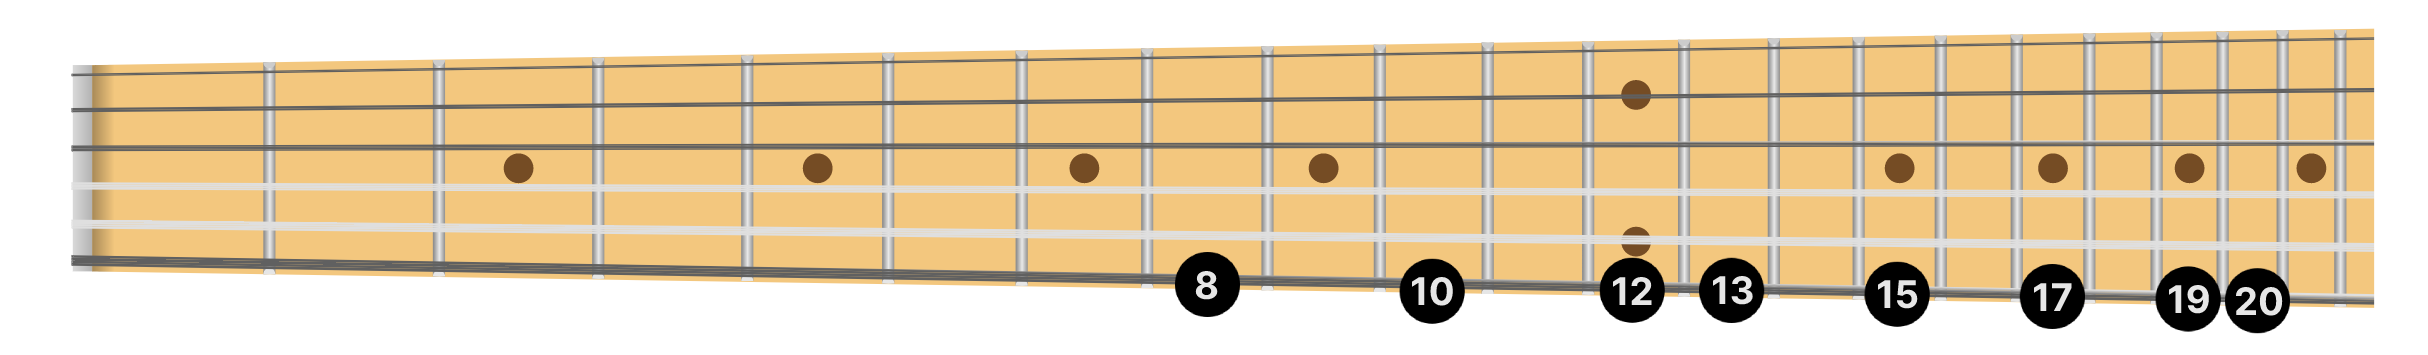
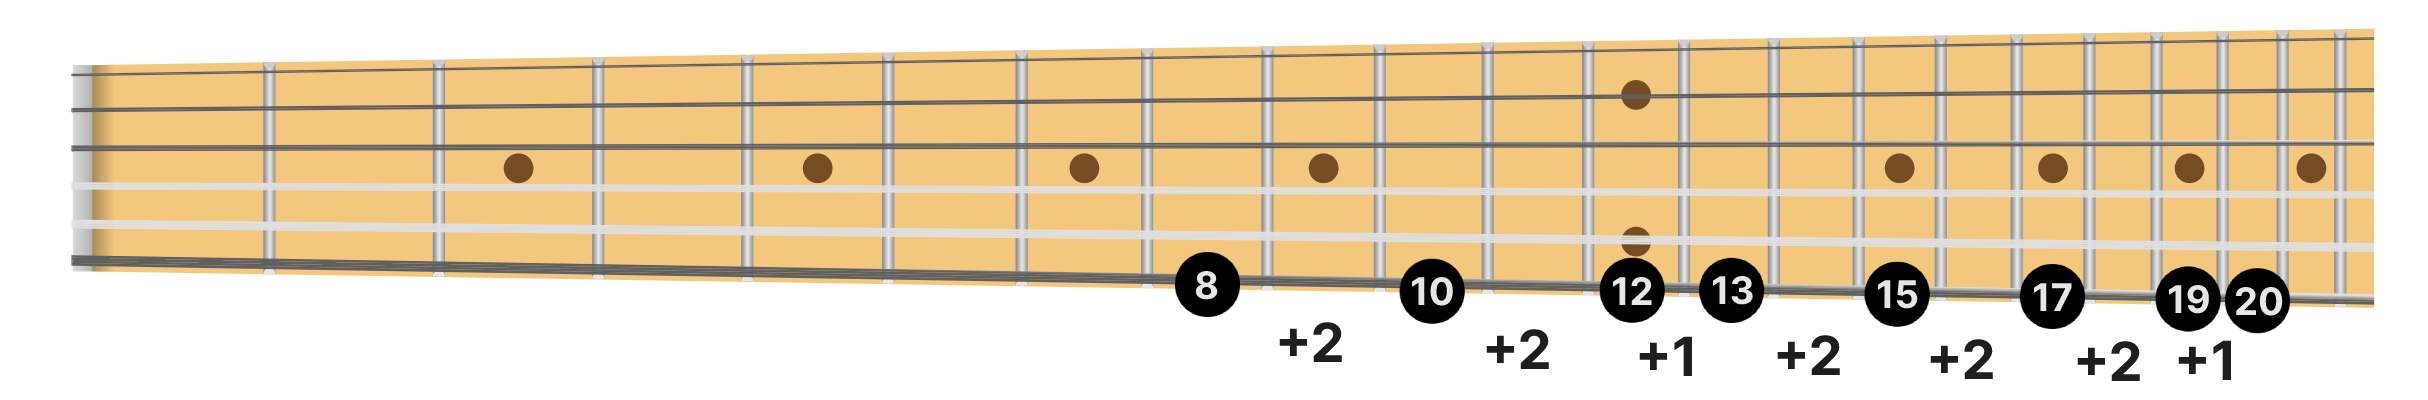
update

diff --git a/musictheory.md b/musictheory.md
@@ -52,7 +52,7 @@ To find out which notes go onto our palette, there is a simple formula to learn.
 
 ![ ]({{ site.baseurl }}/images/fretboard-c-major-frets.png){: .mx-auto.d-block :}
 
-221-2221... get it?
+221-2221
 
 Definitions to learn: the first note in a scale is called the Tonic.
 
@@ -71,7 +71,7 @@ Definitions to learn: the first note in a scale is called the Tonic.
 
 You'll notice that the scale will contain each letter name and loop back to A after the G.
 
-You can choose a different "Tonic" and create a new palette of notes. For example, let's choose "G" as our tonic and apply the 221-2221 formula.
+You can choose a different "Tonic" and create a new palette of notes. For example, let's choose "G" as our tonic and apply the 221-2221 formula. When starting on the 3rd fret, you'll notice some of the notes overlap the C Major Scale.
 
-There is on thing that most theory lessons don't teach—each of the notes names in the C Major Scale
+![ ]({{ site.baseurl }}/images/fretboard-c-major-frets-gmajor.png){: .mx-auto.d-block :}
 
